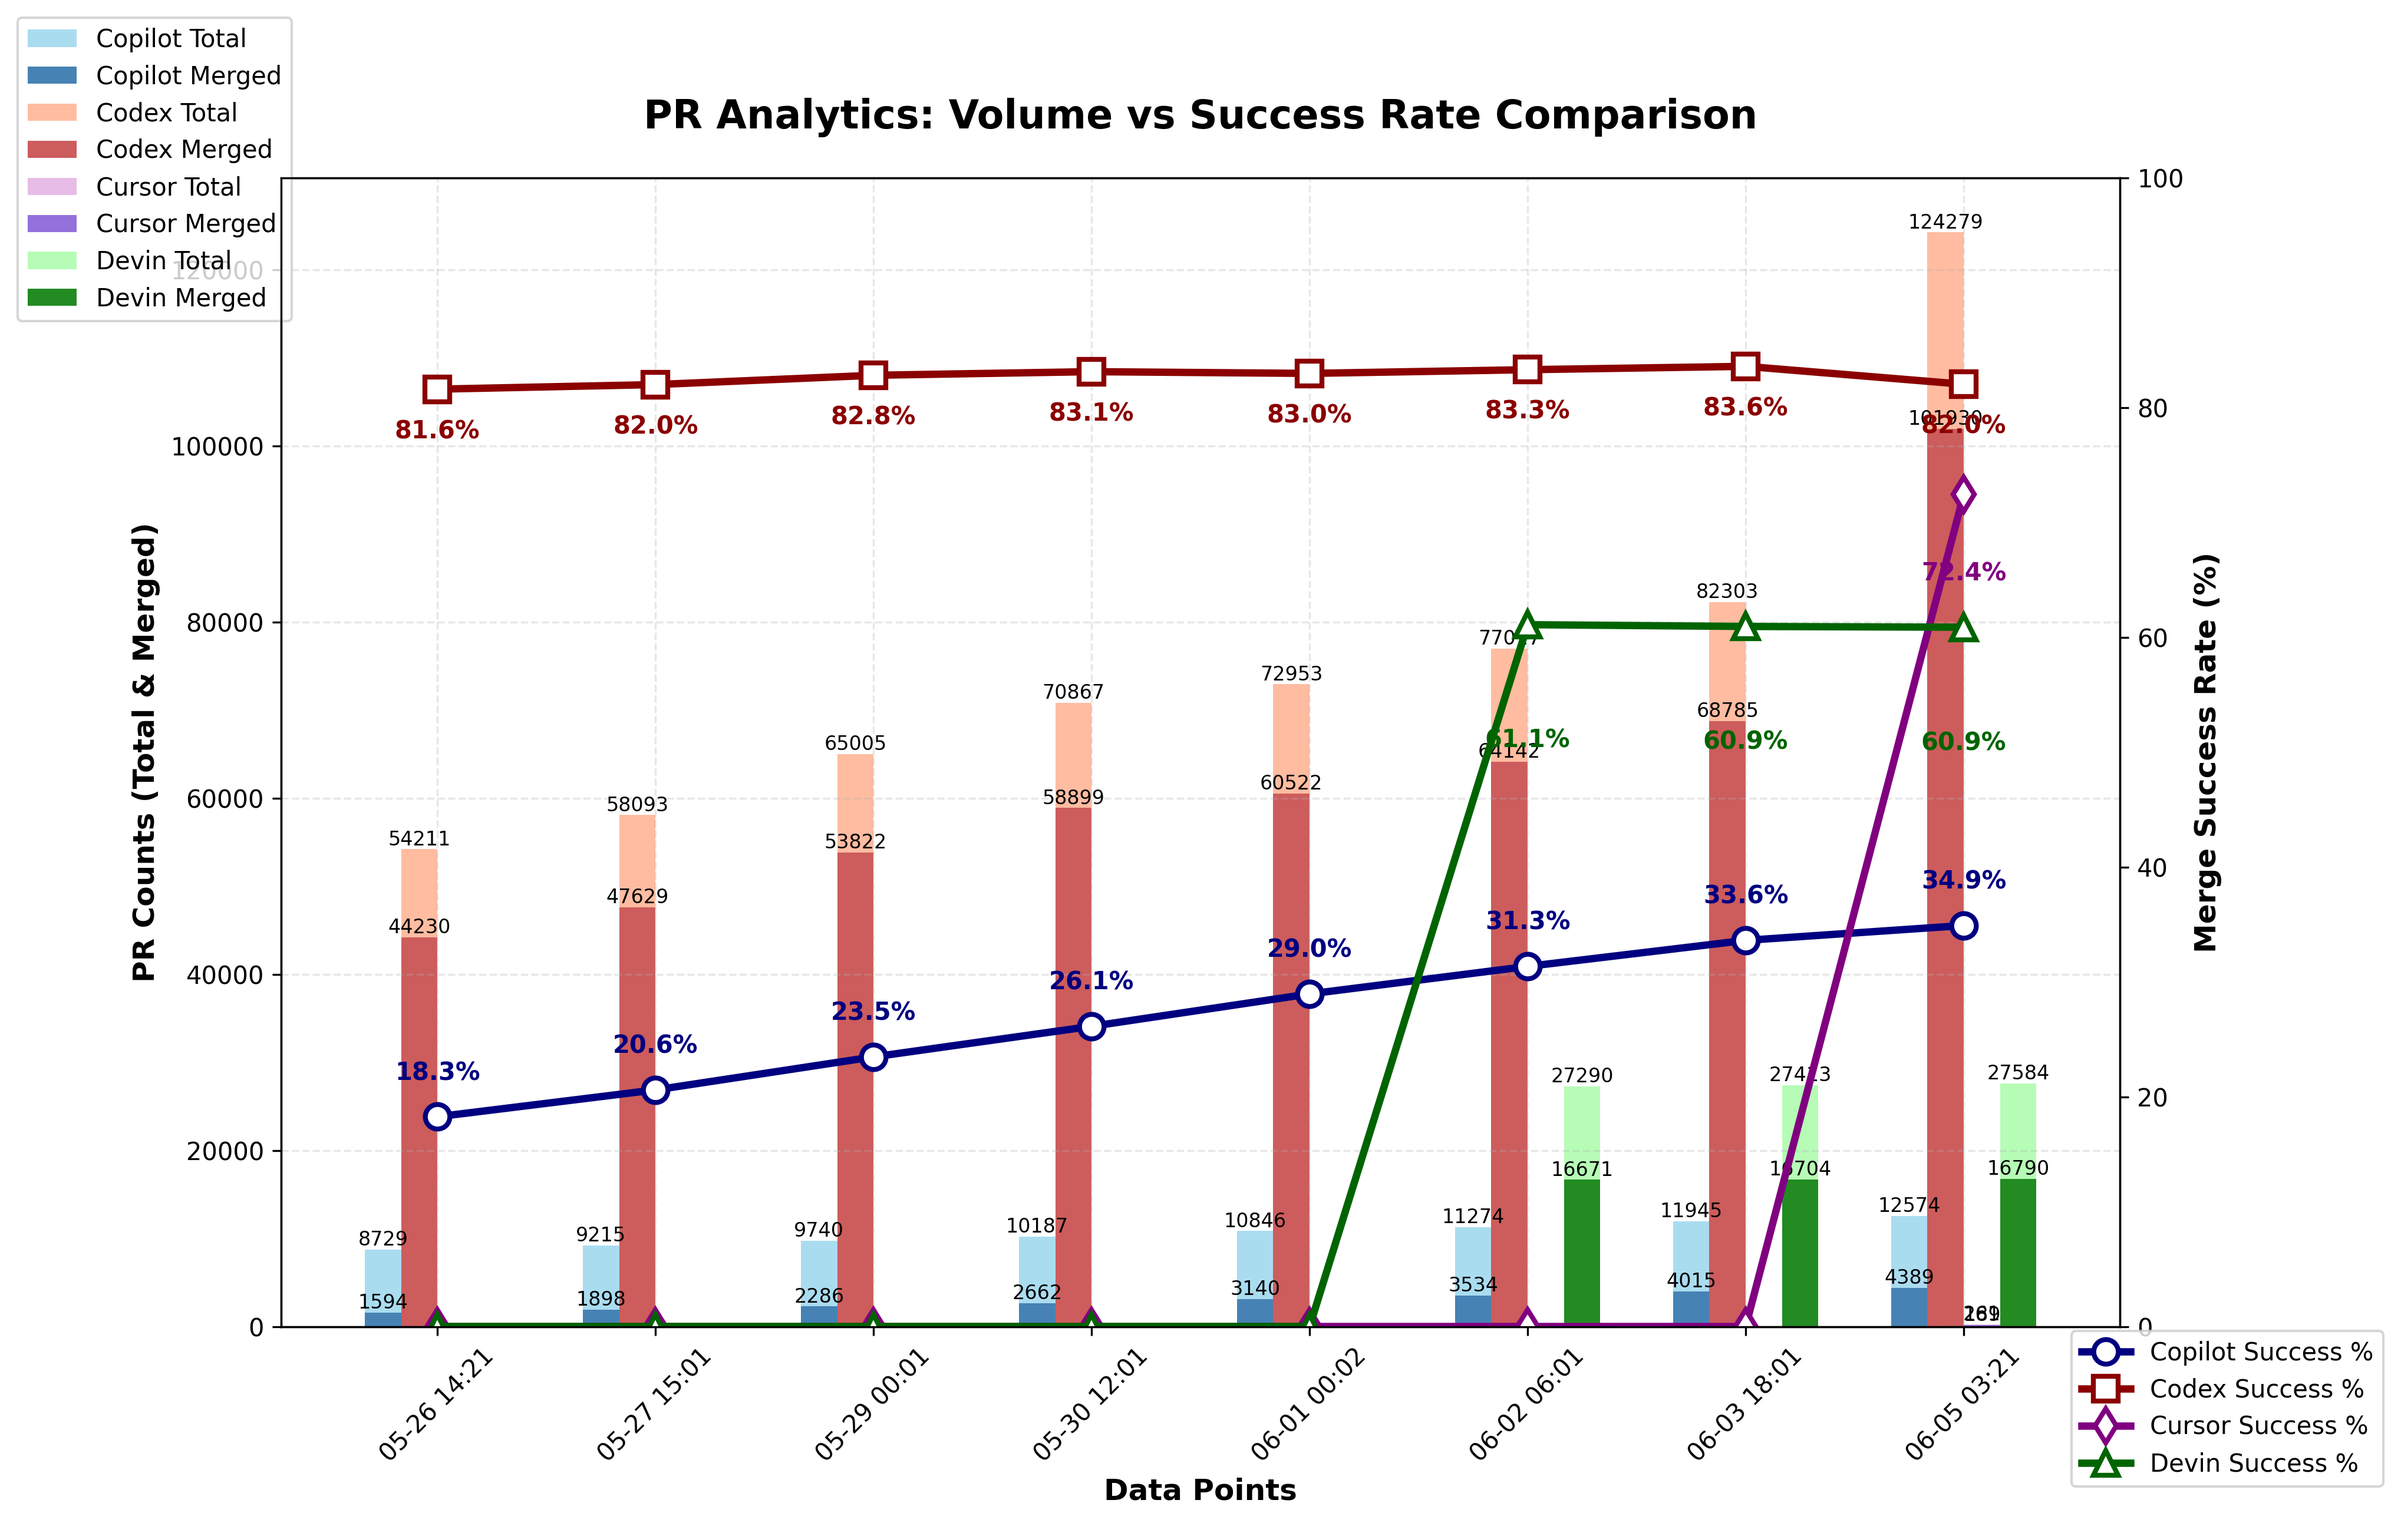
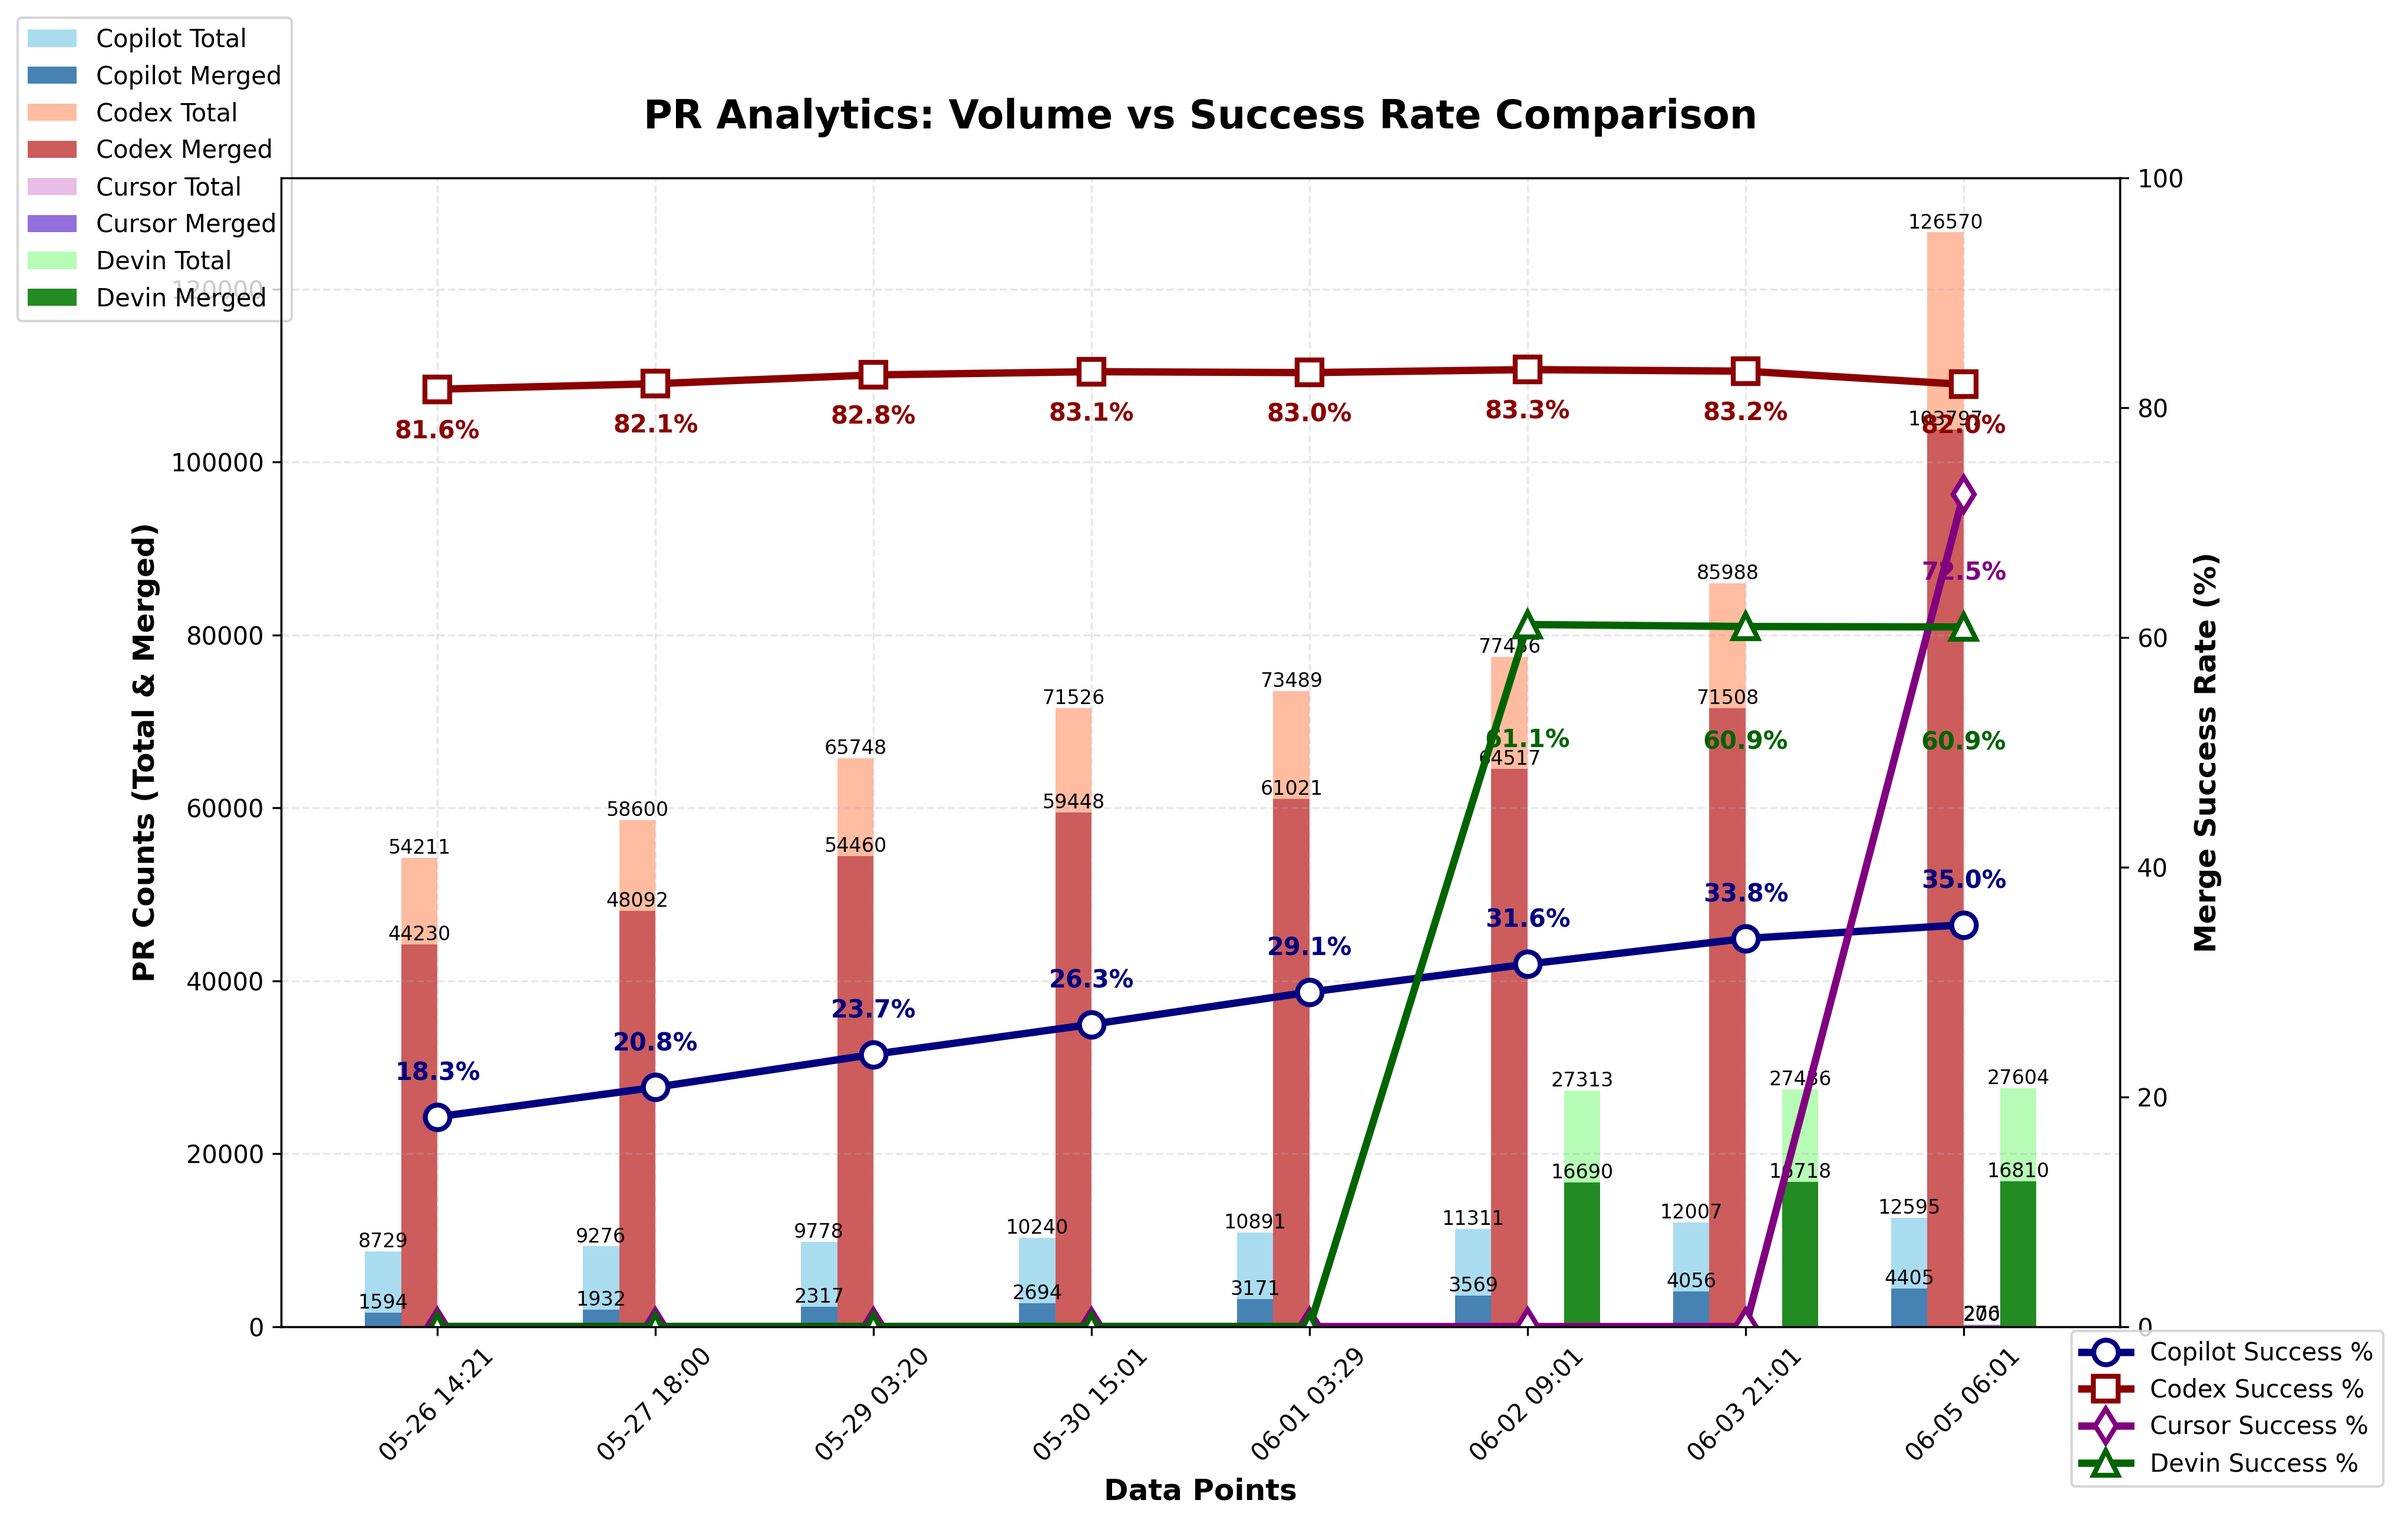
chore: update PR‑approval chart

diff --git a/docs/index.html b/docs/index.html
@@ -48,34 +48,34 @@
                 <tbody>
                     <tr>
                         <td>Copilot</td>
-                        <td>12,574</td>
-                        <td>4,389</td>
-                        <td>34.91%</td>
+                        <td>12,595</td>
+                        <td>4,405</td>
+                        <td>34.97%</td>
                     </tr>
                     <tr>
                         <td>Codex</td>
-                        <td>124,279</td>
-                        <td>101,930</td>
-                        <td>82.02%</td>
+                        <td>126,570</td>
+                        <td>103,797</td>
+                        <td>82.01%</td>
                     </tr>
                     <tr>
                         <td>Cursor</td>
-                        <td>261</td>
-                        <td>189</td>
-                        <td>72.41%</td>
+                        <td>276</td>
+                        <td>200</td>
+                        <td>72.46%</td>
                     </tr>
                     <tr>
                         <td>Devin</td>
-                        <td>27,584</td>
-                        <td>16,790</td>
-                        <td>60.87%</td>
+                        <td>27,604</td>
+                        <td>16,810</td>
+                        <td>60.90%</td>
                     </tr>
                 </tbody>
             </table>
         </section>
 
         <footer>
-            <p>Last updated: <span id="last-updated">June 05, 2025 03:21 UTC</span></p>
+            <p>Last updated: <span id="last-updated">June 05, 2025 06:01 UTC</span></p>
             <p><a href="https://github.com/aavetis/ai-pr-watcher">View on GitHub</a></p>
         </footer>
     </div>

diff --git a/README.md b/README.md
@@ -23,7 +23,7 @@ Explore the GitHub search queries used:
 
 | Project | Total PRs | Merged PRs | Merge Rate |
 | ------- | --------- | ---------- | ---------- |
-| Copilot | 12,574 | 4,389 | 34.91% |
-| Codex   | 124,279 | 101,930 | 82.02% |
-| Cursor  | 261 | 189 | 72.41% |
-| Devin   | 27,584 | 16,790 | 60.87% |
+| Copilot | 12,595 | 4,405 | 34.97% |
+| Codex   | 126,570 | 103,797 | 82.01% |
+| Cursor  | 276 | 200 | 72.46% |
+| Devin   | 27,604 | 16,810 | 60.90% |
